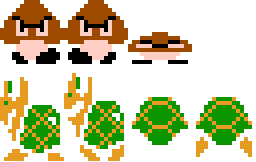
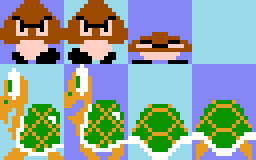
mario stands!

diff --git a/marioLevel/mario1-1.py b/marioLevel/mario1-1.py
@@ -54,7 +54,7 @@ class Flag(egs.Game_objects.drawupdateable):
         filename = "image\\flag.png"
         piece_ss = SpriteSheet(filename)
         for i in range(9):
-            flag_rect = (i*128, 0, 128, 704)
+            flag_rect = (i*128, 0, 128, 705)
             flag_image = piece_ss.image_at(flag_rect)
             self.flag_sprites.append(flag_image)
         self.body = world.CreateStaticBody(position = pos, shapes = b2PolygonShape(box = (p2b* 64, p2b*352)))
@@ -96,7 +96,7 @@ class Goomba(egs.Game_objects.drawupdateable):
         goomba_rect = (128, 0, 64, 64)
         self.goomba_dying = piece_ss.image_at(goomba_rect)
 
-        self.body = world.CreateDynamicBody(position= pos)
+        self.body = world.CreateDynamicBody(position= pos, )
         shape = b2PolygonShape(box = (p2b* 32,p2b*32))
         fixDef = b2FixtureDef(shape=shape, friction = 0.3, restitution=0, density = 1)
         box = self.body.CreateFixture(fixDef)
@@ -198,7 +198,7 @@ class Koopa(egs.Game_objects.drawupdateable):
         koopa_image = piece_ss.image_at(koopa_rect)
         self.koopa_walking.append(koopa_image)
 
-        self.body = world.CreateDynamicBody(position=pos)
+        self.body = world.CreateDynamicBody(position=pos, fixedRotation = True)
         shape=b2PolygonShape(box=(p2b*16, p2b*16))
         fixDef = b2FixtureDef(shape=shape, friction=0.3, restitution=0, density=1)
         box = self.body.CreateFixture(fixDef)
@@ -273,7 +273,7 @@ class KoopaShell(egs.Game_objects.drawupdateable):
         koopa_rect = (192, 96, 64, 64)
         self.koopa_shell_legs = piece_ss.image_at(koopa_rect)
 
-        self.body = world.CreateDynamicBody(position=pos)
+        self.body = world.CreateDynamicBody(position=pos, fixedRotation = True)
         shape=b2PolygonShape(box=(p2b*16, p2b*16))
         fixDef = b2FixtureDef(shape=shape, friction=0.05, restitution=0, density=1)
         box = self.body.CreateFixture(fixDef)
@@ -460,7 +460,7 @@ class SuperMario(egs.Game_objects.drawupdateable):
         mario_rect = (272, 0, 68, 134)
         self.mario_jump = piece_ss.image_at(mario_rect)
 
-        self.body = world.CreateDynamicBody(position=pos)
+        self.body = world.CreateDynamicBody(position=pos, fixedRotation = True)
         shape=b2PolygonShape(box=(p2b*32, p2b*64))
         fixDef = b2FixtureDef(shape=shape, friction=0.3, restitution=0, density=.5)
         box = self.body.CreateFixture(fixDef)
@@ -588,17 +588,17 @@ background = Background()
 ground = Ground(5.12,.64,5.76, .64)
 platform = Ground(2.56 ,2.56,.64,.64)
 mario = SuperMario((2.24, 3.52))
-goomba = Goomba((4,3.52))
+# goomba = Goomba((4,3.52))
 flag = Flag((9.6,4.8))
-# koopa = KoopaShell((4.8,1.76))
+koopa = KoopaShell((4.8,1.76))
 
 groundGroup = pygame.sprite.Group()
 groundGroup.add(ground)
 groundGroup.add(platform)
 
 enemiesGroup = pygame.sprite.Group()
-enemiesGroup.add(goomba)
-# enemiesGroup.add(koopa)
+# enemiesGroup.add(goomba)
+enemiesGroup.add(koopa)
 
 marioGroup = pygame.sprite.Group()
 marioGroup.add(mario)
@@ -607,14 +607,14 @@ scene.drawables.add(background)
 scene.drawables.add(ground)
 scene.drawables.add(platform)
 scene.drawables.add(mario)
-scene.drawables.add(goomba)
-# scene.drawables.add(koopa)
+# scene.drawables.add(goomba)
+scene.drawables.add(koopa)
 scene.drawables.add(flag)
 
 scene.updateables.append(Updater())
 scene.updateables.append(mario)
-scene.updateables.append(goomba)
-# scene.updateables.append(koopa)
+# scene.updateables.append(goomba)
+scene.updateables.append(koopa)
 scene.updateables.append(flag)
 
 engine.start_game()
